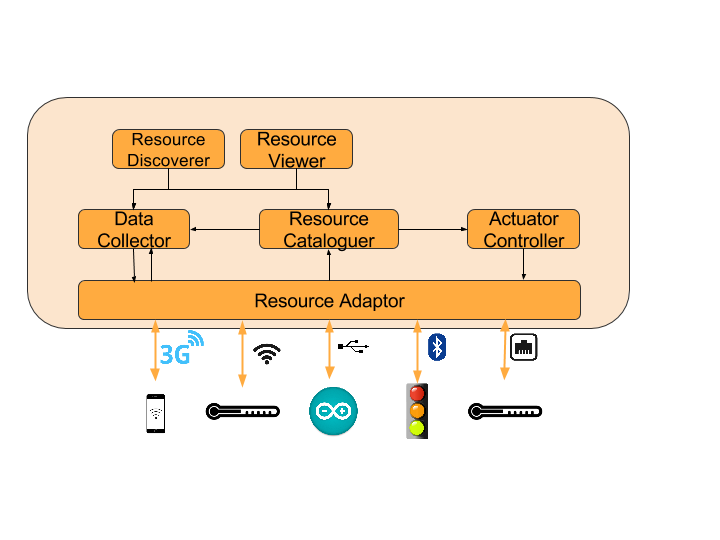
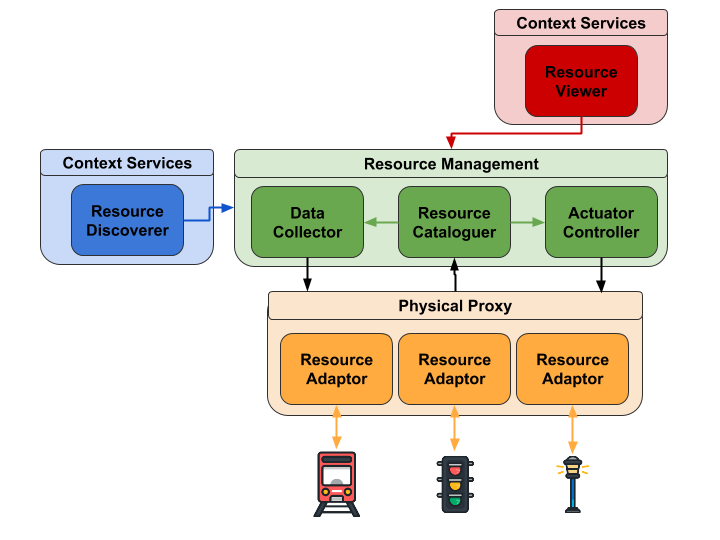
Add new image for services

diff --git a/architecture/Architecture.md b/architecture/Architecture.md
@@ -24,9 +24,11 @@ The following figure presents the platform's main services and how they
 communicate:
 
 ![Platform's services architecture](../images/services_overview.png)
+> Icons from [Flaticon](http://www.flaticon.com/packs/urban-3)
 
 ## Design constraints and guidelines
 
 ## Security
 
 ## Roadmap
+
